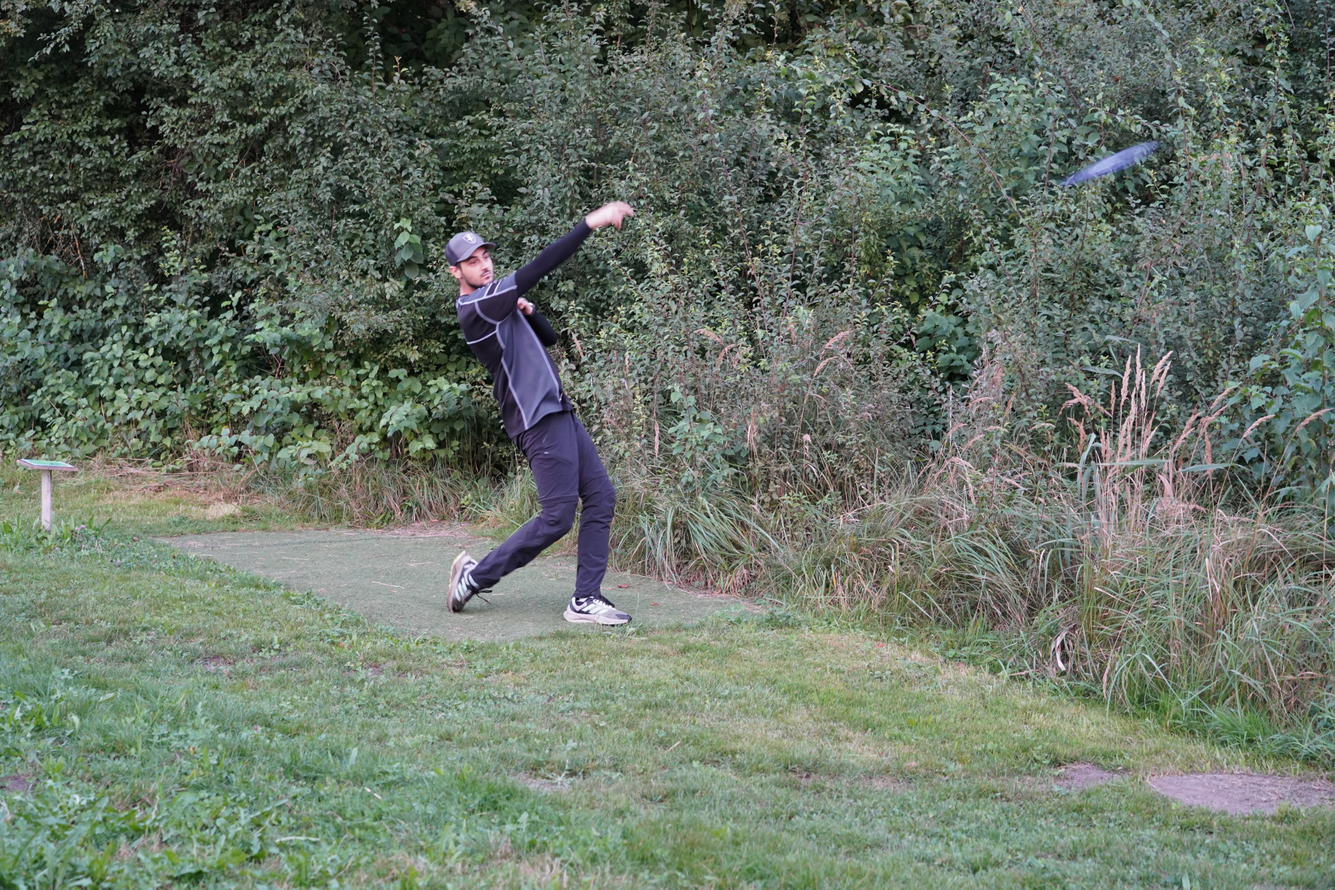
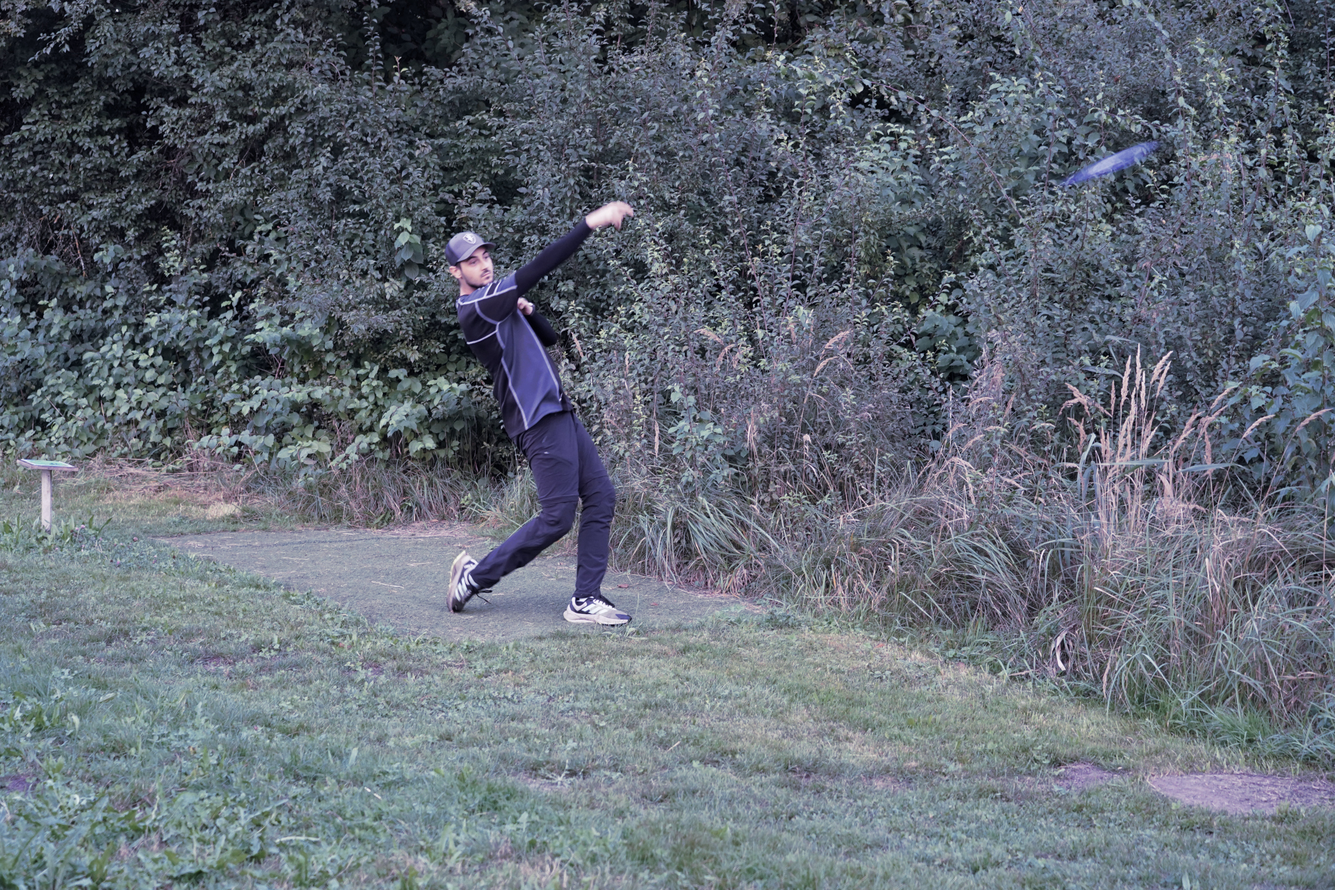
edit pictures to match color scheme

diff --git a/css/styles.css b/css/styles.css
@@ -305,7 +305,7 @@ footer {
     height: 100%;
     border: none;
     box-shadow: 0px 0px 40px rgba(255, 255, 255, 0.4);
-    min-height: 600px;
+    min-height: 500px;
 }
 
 .temp {
